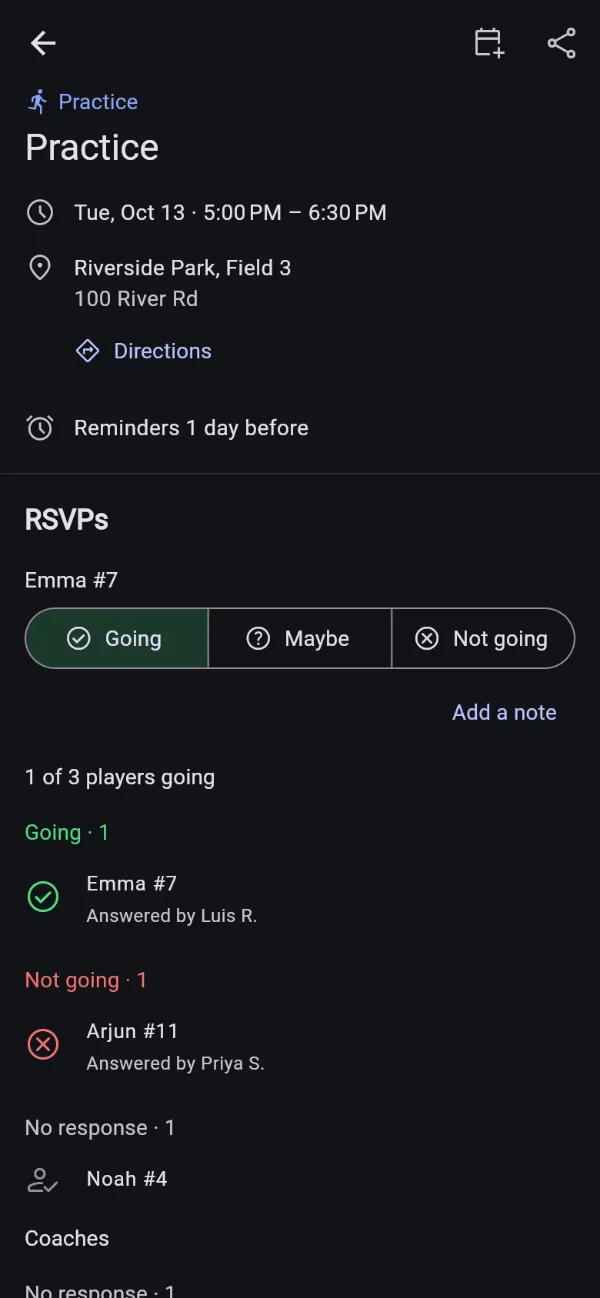
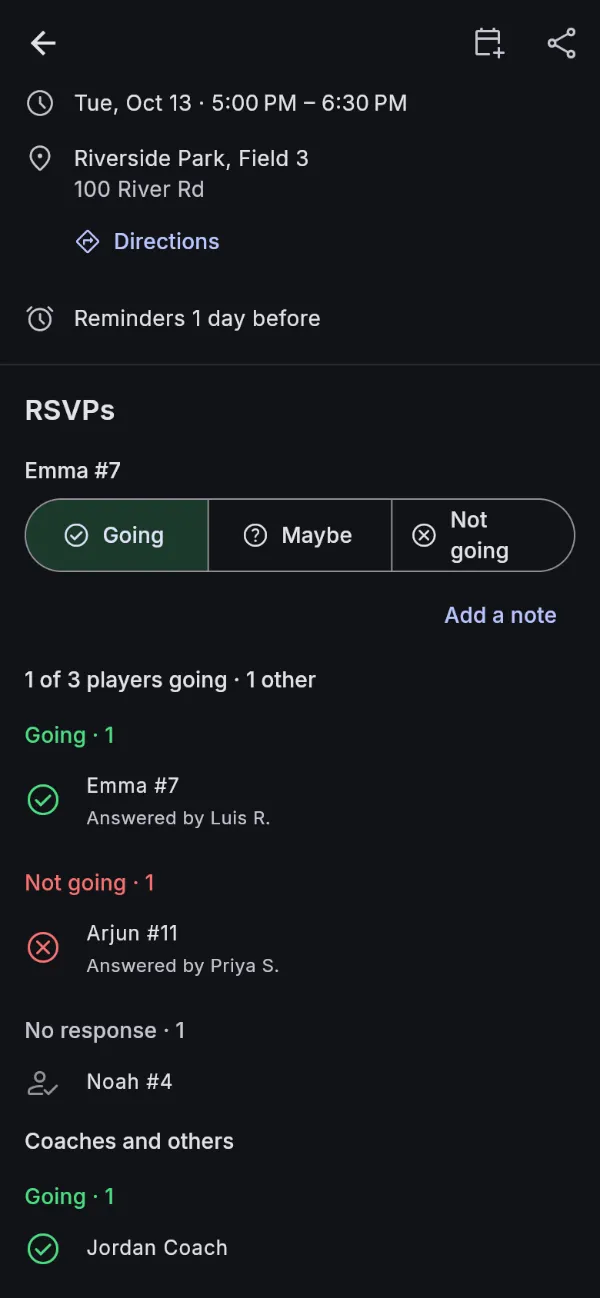
Website: retake the Players and parents screenshot
The RSVP list now shows the Coaches and others group, as the app does.
The README says how to keep the EMU ribbon out of captures.

diff --git a/website/index.html b/website/index.html
@@ -200,7 +200,7 @@
               <div class="phone sm">
                 <picture>
                   <source srcset="/images/youth-dark.webp" media="(prefers-color-scheme: dark)">
-                  <img src="/images/youth-light.webp" width="600" height="1298" loading="lazy" alt="A team practice: a parent answers Going for Emma #7. The RSVP list shows 1 of 3 players going, each player with the person who answered for them.">
+                  <img src="/images/youth-light.webp" width="600" height="1298" loading="lazy" alt="An event's RSVPs: a parent answers Going for Emma #7. The list shows 1 of 3 players going, each player with the person who answered for them, and the coach going under Coaches and others.">
                 </picture>
               </div>
             </div>

diff --git a/website/README.md b/website/README.md
@@ -41,7 +41,7 @@ The screenshots are real captures of the web app with sample data, taken locally
 
 1. Start the emulators and seed them (DEVELOPMENT.md, `tools/seed`), and add any extra sample messages, polls, events, and documents you want shown.
 2. `flutter build web --wasm -t lib/main_dev.dart --dart-define=USE_EMULATORS=true -o <a folder outside the repo>` and serve that folder on a local port.
-3. Sign in as a seeded user in headless Chrome at 390 × 844 (device scale 2) and capture each screen with `prefers-color-scheme` set to light and then dark. Hide the "Running in emulator mode" banner.
+3. Sign in as a seeded user in headless Chrome at 390 × 844 (device scale 2) and capture each screen with `prefers-color-scheme` set to light and then dark. Hide the "Running in emulator mode" banner, and the "EMU" corner ribbon (build from a scratch copy of the repo with `bannerLabel` in `lib/core/env.dart` returning null; never commit that change).
 4. Resize to 600 px wide and save as WebP (quality about 80) under `images/` with the same names, so the pages don't change.
 
 Regenerate `images/og.png` from the new screenshots at 1200 × 630.
